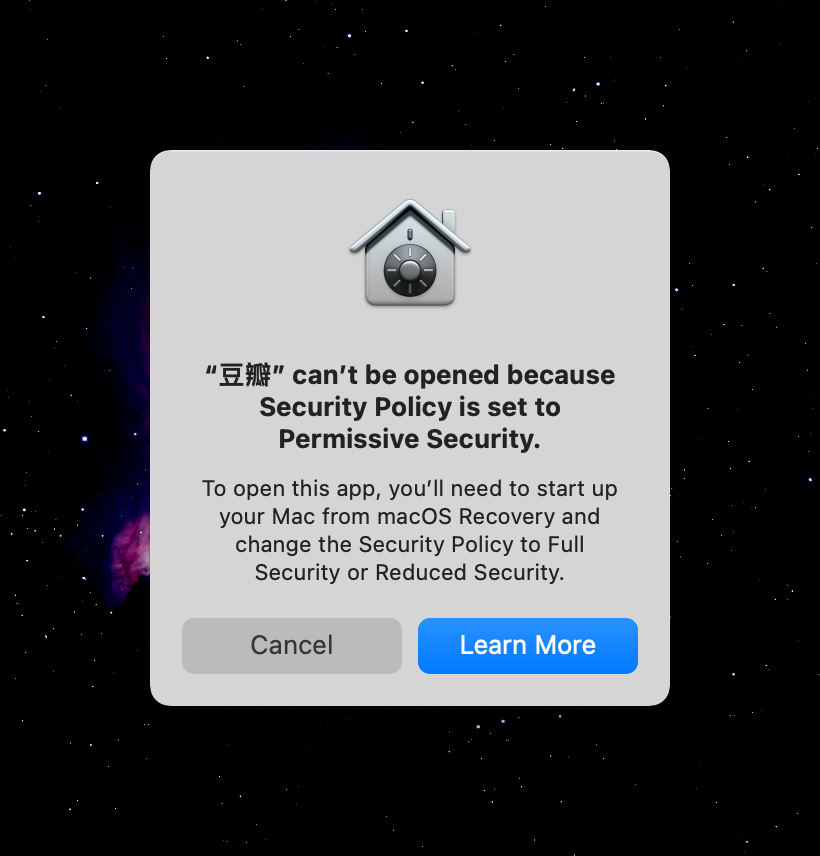
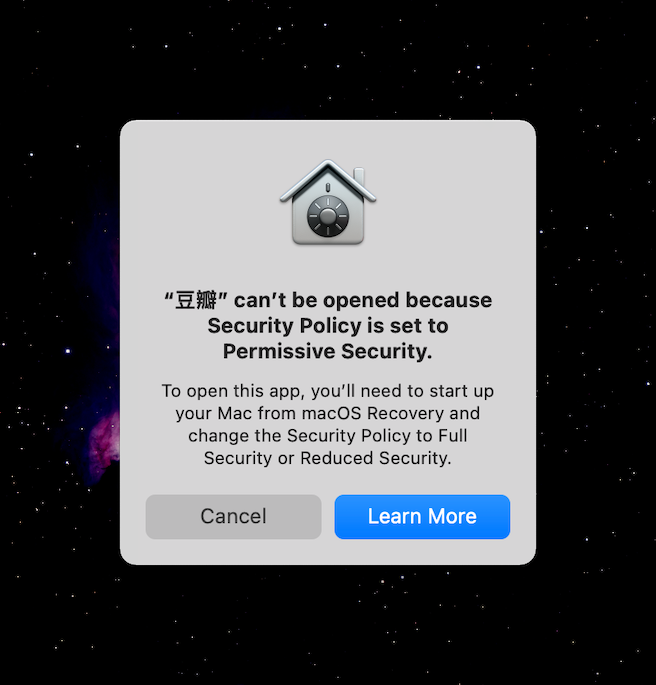
Fix image size

diff --git a/posts/disable-swap-on-macbookpro-2021/index.html b/posts/disable-swap-on-macbookpro-2021/index.html
@@ -134,7 +134,7 @@
 <p>使用此方法会导致安全等级降低至<code>Permissive Security</code>，从而导致<strong>无法运行任何iOS app</strong>：</p>
 </li>
 </ol>
-<p>![Permissive Policy Error](/images/disable-swap-on-macbookpro-2021/permissive-policy-error.png =250x)</p>
+<p><img src="/images/disable-swap-on-macbookpro-2021/permissive-policy-error.png" alt="Permissive Policy Error"></p>
 <p>因为我没有运行iOS app的需求，所以这一点对我没有任何影响。</p>
 <div class="highlight"><pre tabindex="0" style="color:#f8f8f2;background-color:#272822;-moz-tab-size:4;-o-tab-size:4;tab-size:4"><code class="language-shell" data-lang="shell"><span style="color:#75715e"># 关机，长按电源键，选择进入Recovery</span>
 &gt; bputil -a <span style="color:#75715e"># Enables sending custom boot args to the kernel</span>
